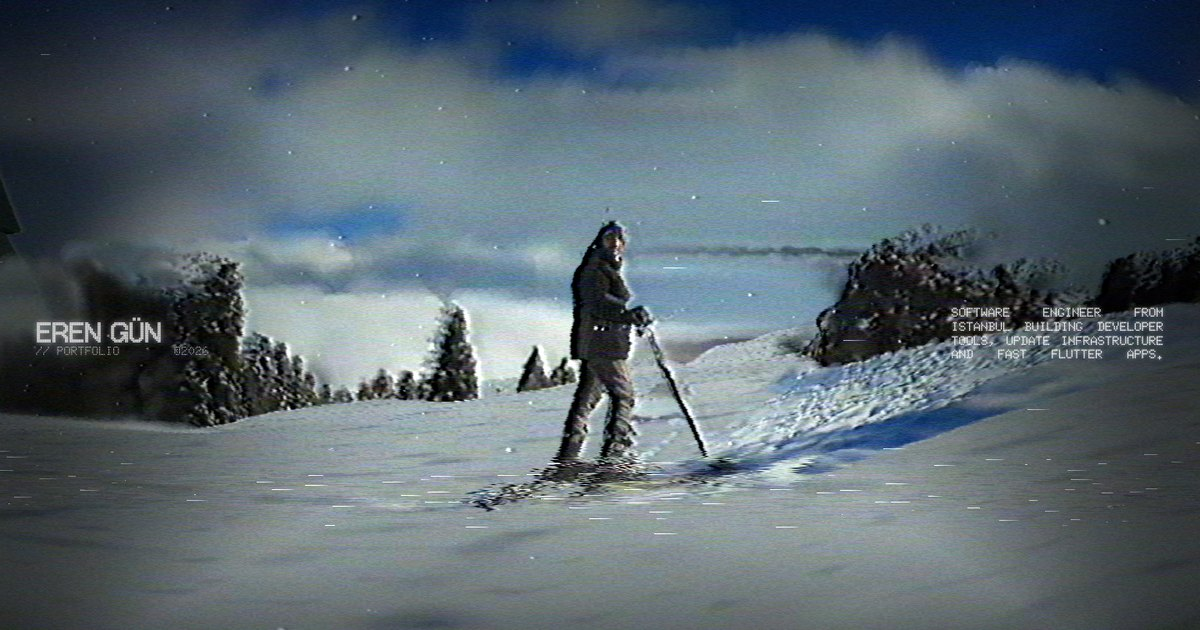
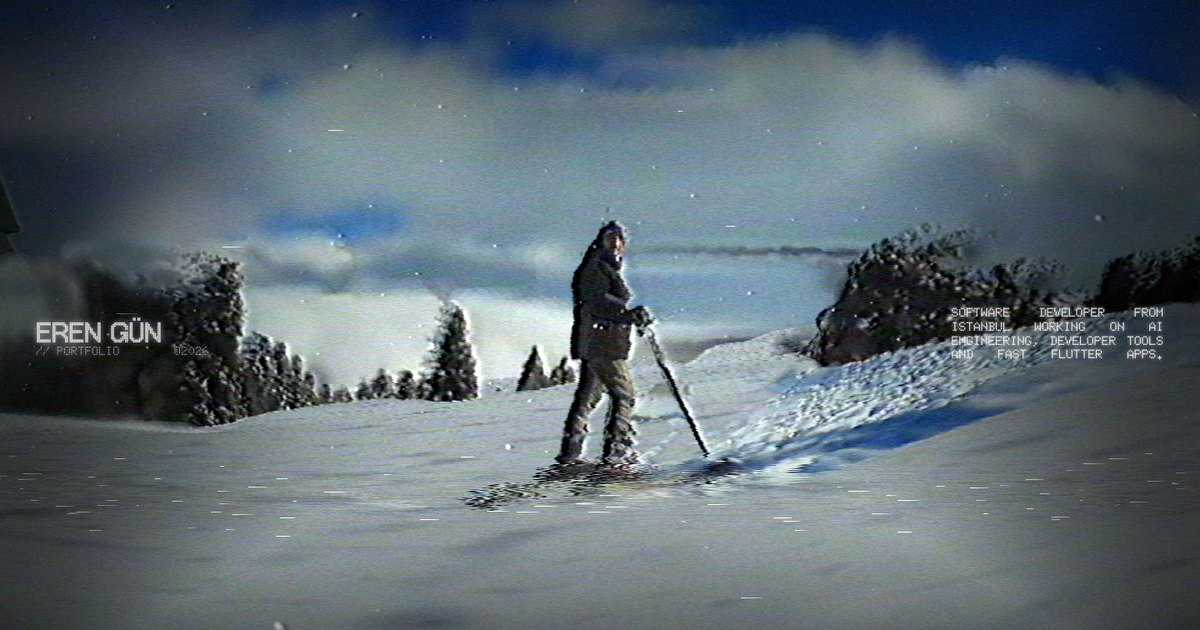
Title: Software Developer | AI Engineering (title, OG, h1, JSON-LD jobTitle, tagline, OG image)
Claude-Session: https://claude.ai/code/session_019fGxzJ72h2RY65Y8BRfopH

diff --git a/src/lib/content.ts b/src/lib/content.ts
@@ -2,7 +2,7 @@
 export const SITE = {
   name: 'Eren Gün',
   logo: 'eren gün',
-  tagline: 'Software engineer from Istanbul building developer tools, update infrastructure and fast Flutter apps.',
+  tagline: 'Software developer from Istanbul working on AI engineering, developer tools and fast Flutter apps.',
   year: '2026',
   email: 'hi@erengun.dev',
 };
